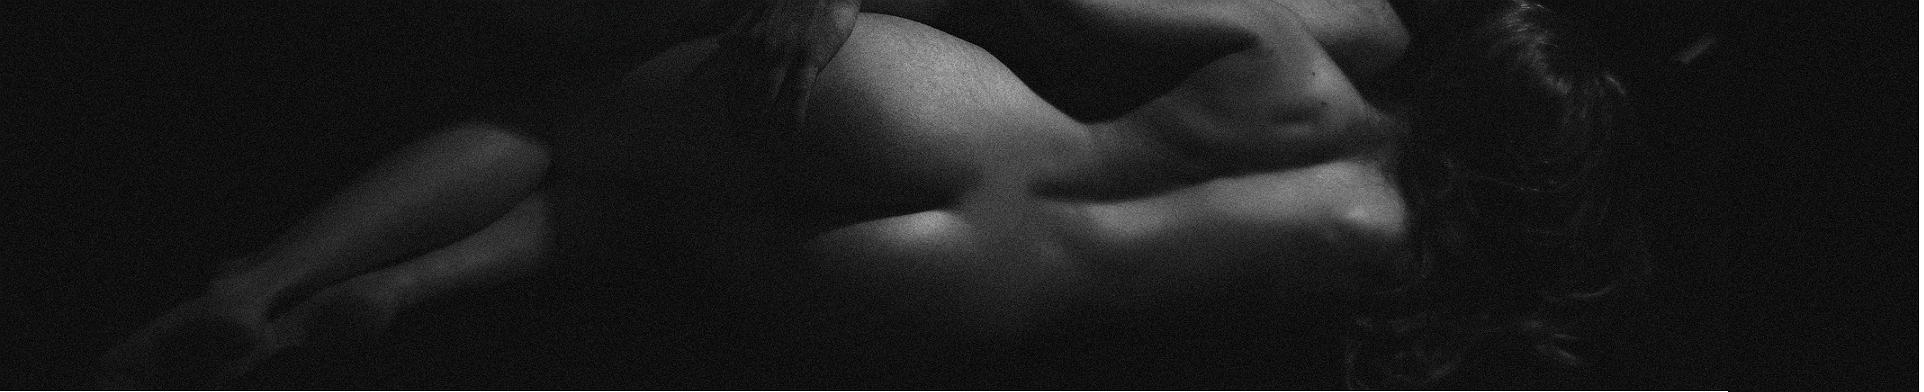
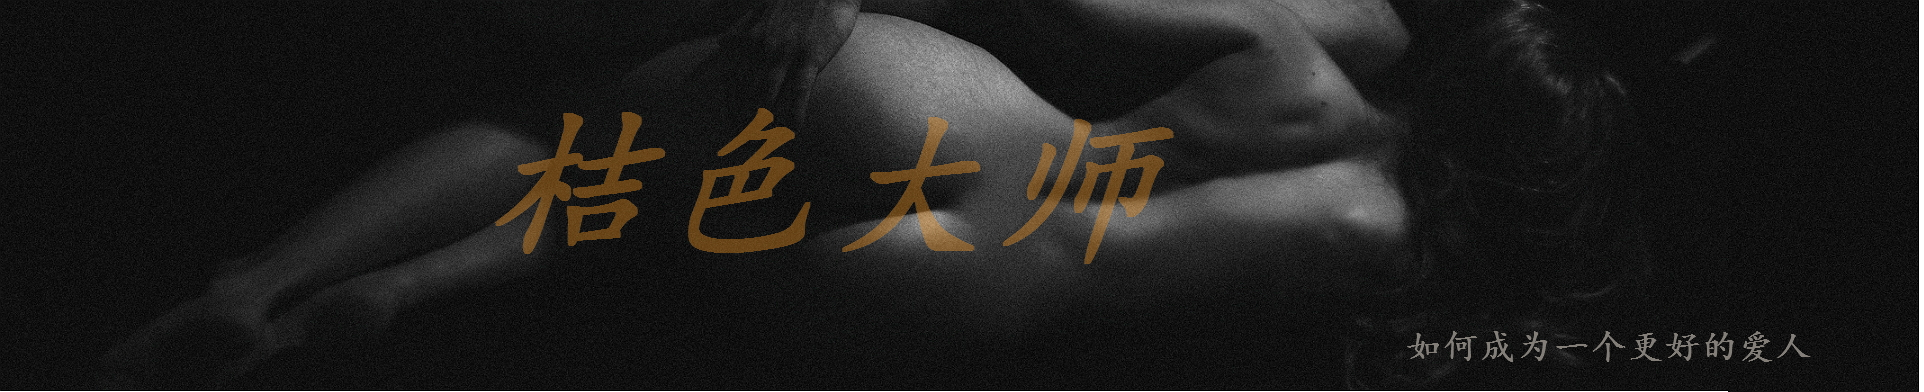
Site updated: 2019-04-06 18:04:32

Changed region(s): [[0.2495, 0.2755, 0.6237, 0.6735], [0.7173, 0.8571, 0.9356, 0.9184]]

diff --git a/2019/02/26/hello-world/index.html b/2019/02/26/hello-world/index.html
@@ -8,18 +8,18 @@
     <meta http-equiv="Cache-Control" content="no-siteapp">
     <meta http-equiv="Cache-Control" content="no-transform">
     <meta name="renderer" content="webkit|ie-comp|ie-stand">
-    <meta name="apple-mobile-web-app-capable" content="Hexo">
+    <meta name="apple-mobile-web-app-capable" content="orange master">
     <meta name="apple-mobile-web-app-status-bar-style" content="black">
     <meta name="format-detection" content="telephone=no,email=no,adress=no">
     <meta name="browsermode" content="application">
     <meta name="screen-orientation" content="portrait">
-    <link rel="dns-prefetch" href="https://xxf224.github.io/bs.github.io">
+    <link rel="dns-prefetch" href="www.bs520.net">
     <!--SEO-->
 
     <meta name="keywords" content>
 
 
-    <meta name="description" content="Welcome to Hexo! This is your very first post. Check documentation for more info. If you get any ...">
+    <meta name="description" content="欢迎来到桔色大师，这是网站的第一篇文章。今天是2019年4月6日，我诞生了！从今天开始，以后会定期更新两性技巧等相关的文章，科普两性知识、解决性爱困扰、研究性爱技巧、提升性爱能力，争取能让每个人...">
 
 
 
@@ -31,10 +31,10 @@
     <!--Title-->
 
 
-<title>Hello World | Hexo</title>
+<title>我是桔色大师 | orange master</title>
 
 
-    <link rel="alternate" href="/atom.xml" title="Hexo" type="application/atom+xml">
+    <link rel="alternate" href="/atom.xml" title="orange master" type="application/atom+xml">
 
 
     <link rel="icon" href="/favicon.ico">
@@ -77,7 +77,7 @@
 <![endif]-->
 
 <body>
-    <header class="main-header" style="background-image:url(https://i.loli.net/2019/04/05/5ca75c0094746.jpg)">
+    <header class="main-header" style="background-image:url(https://i.loli.net/2019/04/06/5ca8692f63592.jpg)">
 </header>
     <nav class="main-navigation">
     <div class="container">
@@ -87,7 +87,7 @@
                     <span class="sr-only"></span>
                         <i class="fa fa-bars"></i>
                     </span>
-                    <a class="navbar-brand" href="https://xxf224.github.io/bs.github.io">Hexo</a>
+                    <a class="navbar-brand" href="www.bs520.net">orange master</a>
                 </div>
                 <div class="collapse navbar-collapse" id="main-menu">
                     <ul class="menu">
@@ -125,9 +125,9 @@
                     <p id="process"></p>
 <article class="post">
     <div class="post-head">
-        <h1 id="Hello World">
+        <h1 id="我是桔色大师">
             
-	            Hello World
+	            我是桔色大师
             
         </h1>
         <div class="post-meta">
@@ -161,22 +161,15 @@
     </div>
     
     <div class="post-body post-content">
-        <p>Welcome to <a href="https://hexo.io/" target="_blank" rel="noopener">Hexo</a>! This is your very first post. Check <a href="https://hexo.io/docs/" target="_blank" rel="noopener">documentation</a> for more info. If you get any problems when using Hexo, you can find the answer in <a href="https://hexo.io/docs/troubleshooting.html" target="_blank" rel="noopener">troubleshooting</a> or you can ask me on <a href="https://github.com/hexojs/hexo/issues" target="_blank" rel="noopener">GitHub</a>.</p>
-<h2 id="Quick-Start"><a href="#Quick-Start" class="headerlink" title="Quick Start"></a>Quick Start</h2><h3 id="Create-a-new-post"><a href="#Create-a-new-post" class="headerlink" title="Create a new post"></a>Create a new post</h3><figure class="highlight bash"><table><tr><td class="gutter"><pre><span class="line">1</span><br></pre></td><td class="code"><pre><span class="line">$ hexo new <span class="string">"My New Post"</span></span><br></pre></td></tr></table></figure>
-<p>More info: <a href="https://hexo.io/docs/writing.html" target="_blank" rel="noopener">Writing</a></p>
-<h3 id="Run-server"><a href="#Run-server" class="headerlink" title="Run server"></a>Run server</h3><figure class="highlight bash"><table><tr><td class="gutter"><pre><span class="line">1</span><br></pre></td><td class="code"><pre><span class="line">$ hexo server</span><br></pre></td></tr></table></figure>
-<p>More info: <a href="https://hexo.io/docs/server.html" target="_blank" rel="noopener">Server</a></p>
-<h3 id="Generate-static-files"><a href="#Generate-static-files" class="headerlink" title="Generate static files"></a>Generate static files</h3><figure class="highlight bash"><table><tr><td class="gutter"><pre><span class="line">1</span><br></pre></td><td class="code"><pre><span class="line">$ hexo generate</span><br></pre></td></tr></table></figure>
-<p>More info: <a href="https://hexo.io/docs/generating.html" target="_blank" rel="noopener">Generating</a></p>
-<h3 id="Deploy-to-remote-sites"><a href="#Deploy-to-remote-sites" class="headerlink" title="Deploy to remote sites"></a>Deploy to remote sites</h3><figure class="highlight bash"><table><tr><td class="gutter"><pre><span class="line">1</span><br></pre></td><td class="code"><pre><span class="line">$ hexo deploy</span><br></pre></td></tr></table></figure>
-<p>More info: <a href="https://hexo.io/docs/deployment.html" target="_blank" rel="noopener">Deployment</a></p>
+        <p>欢迎来到桔色大师，这是网站的第一篇文章。今天是2019年4月6日，我诞生了！从今天开始，以后会定期更新两性技巧等相关的文章，科普两性知识、解决性爱困扰、研究性爱技巧、提升性爱能力，争取能让每个人都能有美好的性爱生活，性使我们的人生更加完整，充满色彩。无论男女，无论人生的哪个阶段，都会有各种各样的性相关的问题困扰着我们：性欲低下、阳痿、早泄、性爱疼痛、没有性快感、没有高潮、性生活单调乏味、性生活质量低下、性能力不足不能满足对方进而导致婚姻破裂、谈性色变、性伴侣没有情调没有前戏、性生活长期压抑得不到释放、不重视性健康等等。有的人会说，在这个充满压力和焦虑的年代，生存本来就不容易，还谈干什么。可是从古自今，性就是人生的一个重要组成部分，谁也逃避不开。很多事情，你即使能逃避一时，甚至逃避一辈子，殊不知你所失去的，就是你最美好的东西：爱、生活和无与伦比的性爱时光。我们都将会老去，也都将会死去，活在当下，爱在当下，把握美好时光。</p>
+<p>我将尽我所能，倾其所有，帮助你，解决困扰你的两性问题，让你拥有更加美好的性爱，更加美好的生活，更加美好的人生。有些人也许会问，你凭什么要帮我，你和我又不熟。我想说，你现在所遇到的问题，也许也是我曾经走过的路。每个人的人生可能不一样，但是很多人走过的路却是相似的。帮助你，也是帮助我自己。这项事业，可能需要我付出巨大的精力和时间，我不知道能带给我什么，但是我知道，这些东西肯定比我现在的工作有意义的多。我们中的大部分人，包括我，都是白天上班晚上下班，为了那份还算不错的工资，将时光都卖给了老板。几十年过去，当我们老去，即将离开这人世的时候，我们留下了什么？做了些什么有意义的事情没？除了给老板赚钱，一点有意义的东西都没留下，那样的人生有点可悲！所以不管我们以后做什么，是否还从事现在的工作，我们都需要为人类贡献自己的一份努力，让人类生活更加美好！</p>
 
     </div>
     
     <div class="post-footer">
         <div>
             
-                转载声明：商业转载请联系作者获得授权,非商业转载请注明出处 © <a href target="_blank">Snippet</a>
+                转载声明：商业转载请联系作者获得授权,非商业转载请注明出处 © <a href target="_blank">桔色大师</a>
             
         </div>
         <div>
@@ -228,7 +221,7 @@
     <div class="widget">
         <h3 class="title">文章目录</h3>
         
-            <ol class="toc"><li class="toc-item toc-level-2"><a class="toc-link" href="#Quick-Start"><span class="toc-text">Quick Start</span></a><ol class="toc-child"><li class="toc-item toc-level-3"><a class="toc-link" href="#Create-a-new-post"><span class="toc-text">Create a new post</span></a></li><li class="toc-item toc-level-3"><a class="toc-link" href="#Run-server"><span class="toc-text">Run server</span></a></li><li class="toc-item toc-level-3"><a class="toc-link" href="#Generate-static-files"><span class="toc-text">Generate static files</span></a></li><li class="toc-item toc-level-3"><a class="toc-link" href="#Deploy-to-remote-sites"><span class="toc-text">Deploy to remote sites</span></a></li></ol></li></ol>
+            <p>暂无目录</p>
         
     </div>
 </aside>

diff --git a/index.html b/index.html
@@ -8,12 +8,12 @@
     <meta http-equiv="Cache-Control" content="no-siteapp">
     <meta http-equiv="Cache-Control" content="no-transform">
     <meta name="renderer" content="webkit|ie-comp|ie-stand">
-    <meta name="apple-mobile-web-app-capable" content="Hexo">
+    <meta name="apple-mobile-web-app-capable" content="orange master">
     <meta name="apple-mobile-web-app-status-bar-style" content="black">
     <meta name="format-detection" content="telephone=no,email=no,adress=no">
     <meta name="browsermode" content="application">
     <meta name="screen-orientation" content="portrait">
-    <link rel="dns-prefetch" href="https://xxf224.github.io/bs.github.io">
+    <link rel="dns-prefetch" href="www.bs520.net">
     <!--SEO-->
 
     <meta name="keywords" content>
@@ -31,10 +31,10 @@
     <!--Title-->
 
 
-<title>Hexo</title>
+<title>orange master</title>
 
 
-    <link rel="alternate" href="/atom.xml" title="Hexo" type="application/atom+xml">
+    <link rel="alternate" href="/atom.xml" title="orange master" type="application/atom+xml">
 
 
     <link rel="icon" href="/favicon.ico">
@@ -77,7 +77,7 @@
 <![endif]-->
 
 <body>
-    <header class="main-header" style="background-image:url(https://i.loli.net/2019/04/05/5ca75c0094746.jpg)">
+    <header class="main-header" style="background-image:url(https://i.loli.net/2019/04/06/5ca8692f63592.jpg)">
 </header>
     <nav class="main-navigation">
     <div class="container">
@@ -87,7 +87,7 @@
                     <span class="sr-only"></span>
                         <i class="fa fa-bars"></i>
                     </span>
-                    <a class="navbar-brand" href="https://xxf224.github.io/bs.github.io">Hexo</a>
+                    <a class="navbar-brand" href="www.bs520.net">orange master</a>
                 </div>
                 <div class="collapse navbar-collapse" id="main-menu">
                     <ul class="menu">
@@ -138,7 +138,7 @@
     <div class="post-content">
         <div class="post-head home-post-head">
             <h1 class="post-title">
-                <a href="/bs.github.io/2019/02/26/hello-world/">Hello World</a>
+                <a href="/bs.github.io/2019/02/26/hello-world/">我是桔色大师</a>
             </h1>
             <div class="post-meta">  &bull;
                 <time class="post-date" datetime title>
@@ -148,7 +148,7 @@
         </div>
         <p class="brief">
             
-                Welcome to Hexo! This is your very first post. Check documentation for more info. If you get any problems when using ...
+                欢迎来到桔色大师，这是网站的第一篇文章。今天是2019年4月6日，我诞生了！从今天开始，以后会定期更新两性技巧等相关的文章，科普两性知识、解决性爱困扰、研究性爱技巧、提升性爱能力，争取能让每个人都能有美好的性爱生活，性使我们的人生更加...
             
         </p>
     </div>

diff --git a/archives/2019/02/index.html b/archives/2019/02/index.html
@@ -8,12 +8,12 @@
     <meta http-equiv="Cache-Control" content="no-siteapp">
     <meta http-equiv="Cache-Control" content="no-transform">
     <meta name="renderer" content="webkit|ie-comp|ie-stand">
-    <meta name="apple-mobile-web-app-capable" content="Hexo">
+    <meta name="apple-mobile-web-app-capable" content="orange master">
     <meta name="apple-mobile-web-app-status-bar-style" content="black">
     <meta name="format-detection" content="telephone=no,email=no,adress=no">
     <meta name="browsermode" content="application">
     <meta name="screen-orientation" content="portrait">
-    <link rel="dns-prefetch" href="https://xxf224.github.io/bs.github.io">
+    <link rel="dns-prefetch" href="www.bs520.net">
     <!--SEO-->
 
     <meta name="keywords" content>
@@ -31,10 +31,10 @@
     <!--Title-->
 
 
-<title>归档：2019/2 | Hexo</title>
+<title>归档：2019/2 | orange master</title>
 
 
-    <link rel="alternate" href="/atom.xml" title="Hexo" type="application/atom+xml">
+    <link rel="alternate" href="/atom.xml" title="orange master" type="application/atom+xml">
 
 
     <link rel="icon" href="/favicon.ico">
@@ -77,7 +77,7 @@
 <![endif]-->
 
 <body>
-    <header class="main-header" style="background-image:url(https://i.loli.net/2019/04/05/5ca75c0094746.jpg)">
+    <header class="main-header" style="background-image:url(https://i.loli.net/2019/04/06/5ca8692f63592.jpg)">
 </header>
     <nav class="main-navigation">
     <div class="container">
@@ -87,7 +87,7 @@
                     <span class="sr-only"></span>
                         <i class="fa fa-bars"></i>
                     </span>
-                    <a class="navbar-brand" href="https://xxf224.github.io/bs.github.io">Hexo</a>
+                    <a class="navbar-brand" href="www.bs520.net">orange master</a>
                 </div>
                 <div class="collapse navbar-collapse" id="main-menu">
                     <ul class="menu">
@@ -140,7 +140,7 @@
                             <h3>
                               26<span>02月</span>
                             </h3>
-                            <a href="/bs.github.io/2019/02/26/hello-world/" title="Hello World" target="_blank">Hello World</a>
+                            <a href="/bs.github.io/2019/02/26/hello-world/" title="我是桔色大师" target="_blank">我是桔色大师</a>
                         </li>
                     
                 

diff --git a/archives/2019/index.html b/archives/2019/index.html
@@ -8,12 +8,12 @@
     <meta http-equiv="Cache-Control" content="no-siteapp">
     <meta http-equiv="Cache-Control" content="no-transform">
     <meta name="renderer" content="webkit|ie-comp|ie-stand">
-    <meta name="apple-mobile-web-app-capable" content="Hexo">
+    <meta name="apple-mobile-web-app-capable" content="orange master">
     <meta name="apple-mobile-web-app-status-bar-style" content="black">
     <meta name="format-detection" content="telephone=no,email=no,adress=no">
     <meta name="browsermode" content="application">
     <meta name="screen-orientation" content="portrait">
-    <link rel="dns-prefetch" href="https://xxf224.github.io/bs.github.io">
+    <link rel="dns-prefetch" href="www.bs520.net">
     <!--SEO-->
 
     <meta name="keywords" content>
@@ -31,10 +31,10 @@
     <!--Title-->
 
 
-<title>归档：2019 | Hexo</title>
+<title>归档：2019 | orange master</title>
 
 
-    <link rel="alternate" href="/atom.xml" title="Hexo" type="application/atom+xml">
+    <link rel="alternate" href="/atom.xml" title="orange master" type="application/atom+xml">
 
 
     <link rel="icon" href="/favicon.ico">
@@ -77,7 +77,7 @@
 <![endif]-->
 
 <body>
-    <header class="main-header" style="background-image:url(https://i.loli.net/2019/04/05/5ca75c0094746.jpg)">
+    <header class="main-header" style="background-image:url(https://i.loli.net/2019/04/06/5ca8692f63592.jpg)">
 </header>
     <nav class="main-navigation">
     <div class="container">
@@ -87,7 +87,7 @@
                     <span class="sr-only"></span>
                         <i class="fa fa-bars"></i>
                     </span>
-                    <a class="navbar-brand" href="https://xxf224.github.io/bs.github.io">Hexo</a>
+                    <a class="navbar-brand" href="www.bs520.net">orange master</a>
                 </div>
                 <div class="collapse navbar-collapse" id="main-menu">
                     <ul class="menu">
@@ -140,7 +140,7 @@
                             <h3>
                               26<span>02月</span>
                             </h3>
-                            <a href="/bs.github.io/2019/02/26/hello-world/" title="Hello World" target="_blank">Hello World</a>
+                            <a href="/bs.github.io/2019/02/26/hello-world/" title="我是桔色大师" target="_blank">我是桔色大师</a>
                         </li>
                     
                 

diff --git a/archives/index.html b/archives/index.html
@@ -8,12 +8,12 @@
     <meta http-equiv="Cache-Control" content="no-siteapp">
     <meta http-equiv="Cache-Control" content="no-transform">
     <meta name="renderer" content="webkit|ie-comp|ie-stand">
-    <meta name="apple-mobile-web-app-capable" content="Hexo">
+    <meta name="apple-mobile-web-app-capable" content="orange master">
     <meta name="apple-mobile-web-app-status-bar-style" content="black">
     <meta name="format-detection" content="telephone=no,email=no,adress=no">
     <meta name="browsermode" content="application">
     <meta name="screen-orientation" content="portrait">
-    <link rel="dns-prefetch" href="https://xxf224.github.io/bs.github.io">
+    <link rel="dns-prefetch" href="www.bs520.net">
     <!--SEO-->
 
     <meta name="keywords" content>
@@ -31,10 +31,10 @@
     <!--Title-->
 
 
-<title>归档 | Hexo</title>
+<title>归档 | orange master</title>
 
 
-    <link rel="alternate" href="/atom.xml" title="Hexo" type="application/atom+xml">
+    <link rel="alternate" href="/atom.xml" title="orange master" type="application/atom+xml">
 
 
     <link rel="icon" href="/favicon.ico">
@@ -77,7 +77,7 @@
 <![endif]-->
 
 <body>
-    <header class="main-header" style="background-image:url(https://i.loli.net/2019/04/05/5ca75c0094746.jpg)">
+    <header class="main-header" style="background-image:url(https://i.loli.net/2019/04/06/5ca8692f63592.jpg)">
 </header>
     <nav class="main-navigation">
     <div class="container">
@@ -87,7 +87,7 @@
                     <span class="sr-only"></span>
                         <i class="fa fa-bars"></i>
                     </span>
-                    <a class="navbar-brand" href="https://xxf224.github.io/bs.github.io">Hexo</a>
+                    <a class="navbar-brand" href="www.bs520.net">orange master</a>
                 </div>
                 <div class="collapse navbar-collapse" id="main-menu">
                     <ul class="menu">
@@ -140,7 +140,7 @@
                             <h3>
                               26<span>02月</span>
                             </h3>
-                            <a href="/bs.github.io/2019/02/26/hello-world/" title="Hello World" target="_blank">Hello World</a>
+                            <a href="/bs.github.io/2019/02/26/hello-world/" title="我是桔色大师" target="_blank">我是桔色大师</a>
                         </li>
                     
                 

diff --git a/css/style.css b/css/style.css
@@ -239,7 +239,7 @@ pre {
   position: relative;
   text-align: center;
   line-height: 0;
-  height: 390px;
+  height: 375px;
   width: 100%;
   background: #fff url(http://7xpw2b.com1.z0.glb.clouddn.com/hexo-sinppet/img/banner.jpg);
   background-repeat: repeat;
@@ -483,7 +483,7 @@ pre {
 }
 .post .post-body p {
   font-size: 1em;
-  line-height: 1.5;
+  line-height: 1.7;
 }
 .post .post-body p img {
   max-width: 100%;
